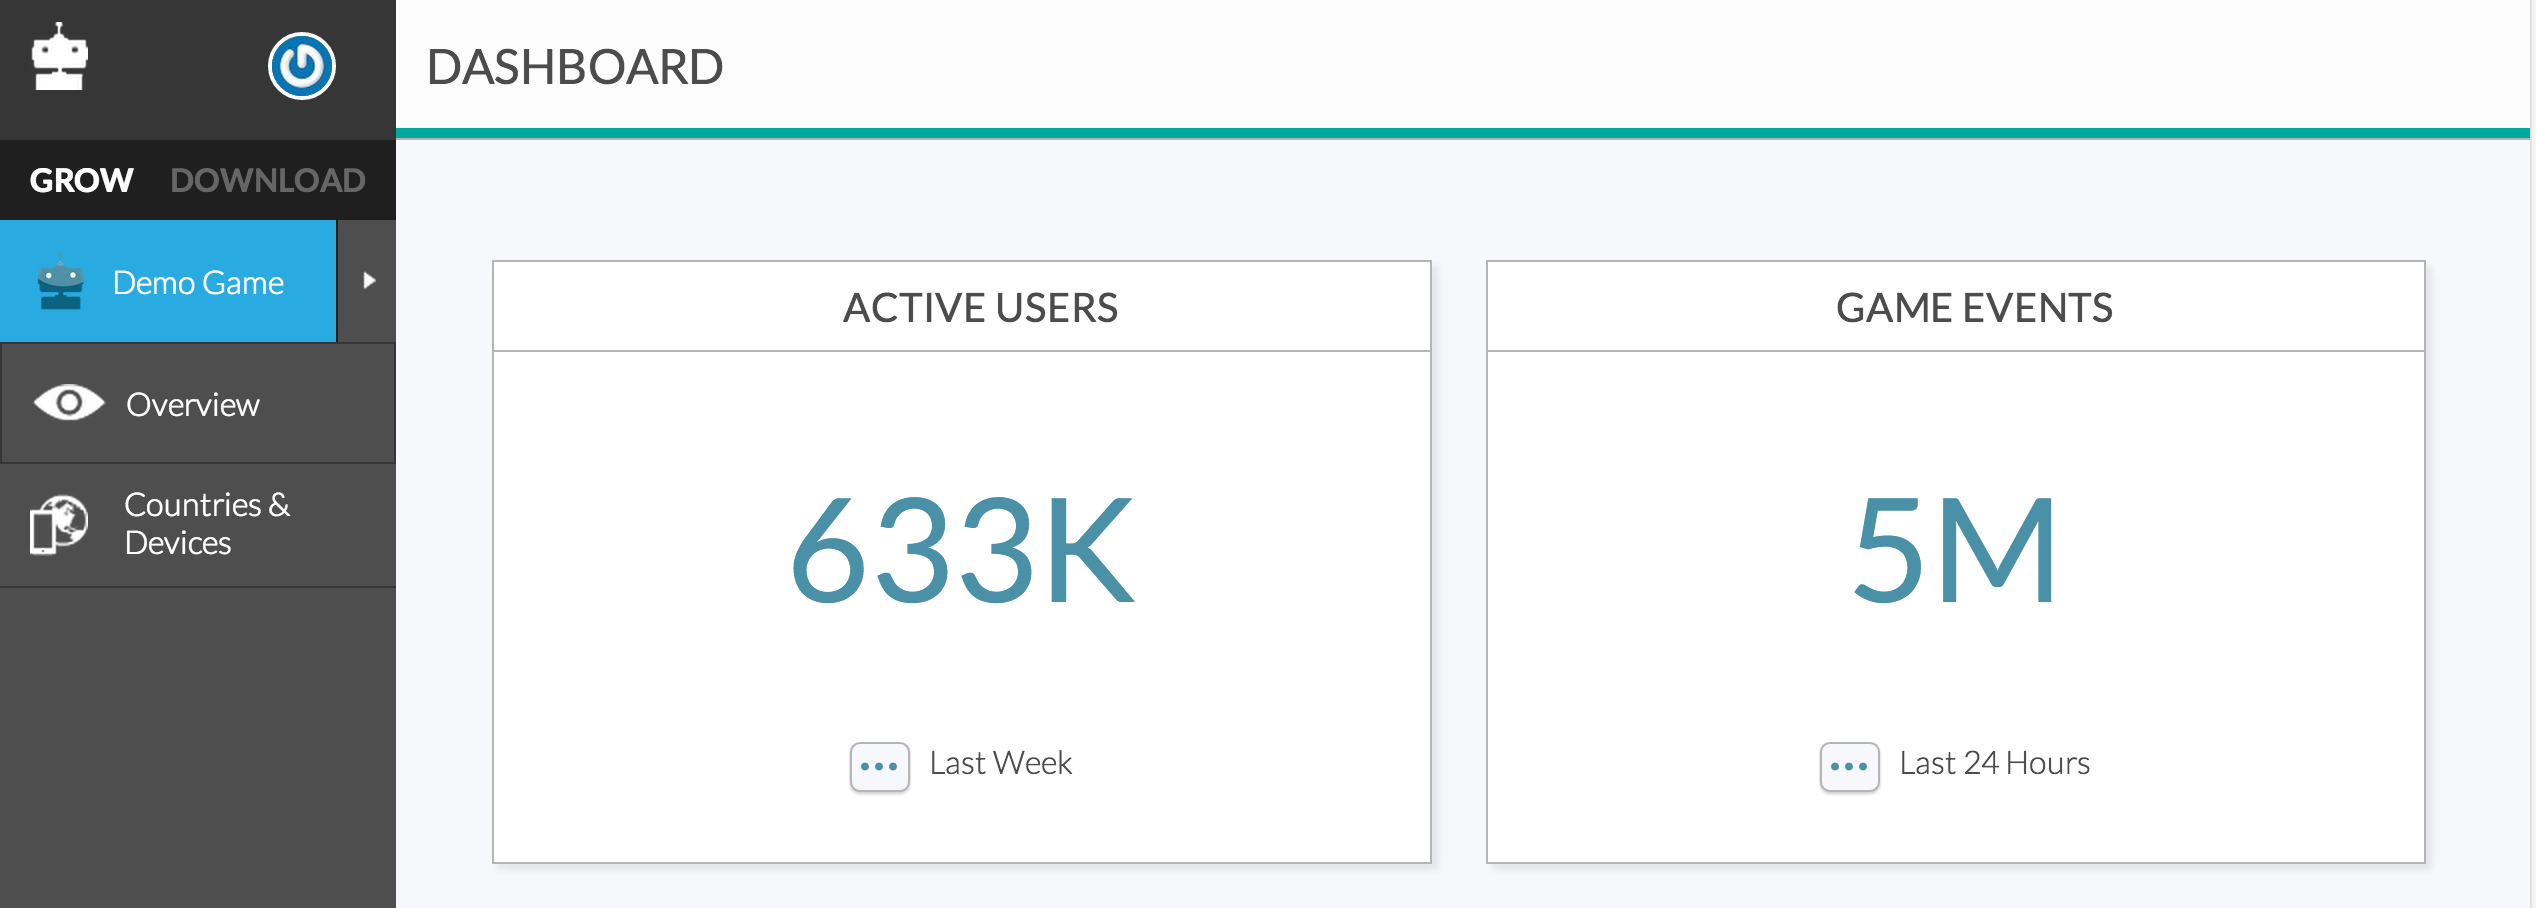
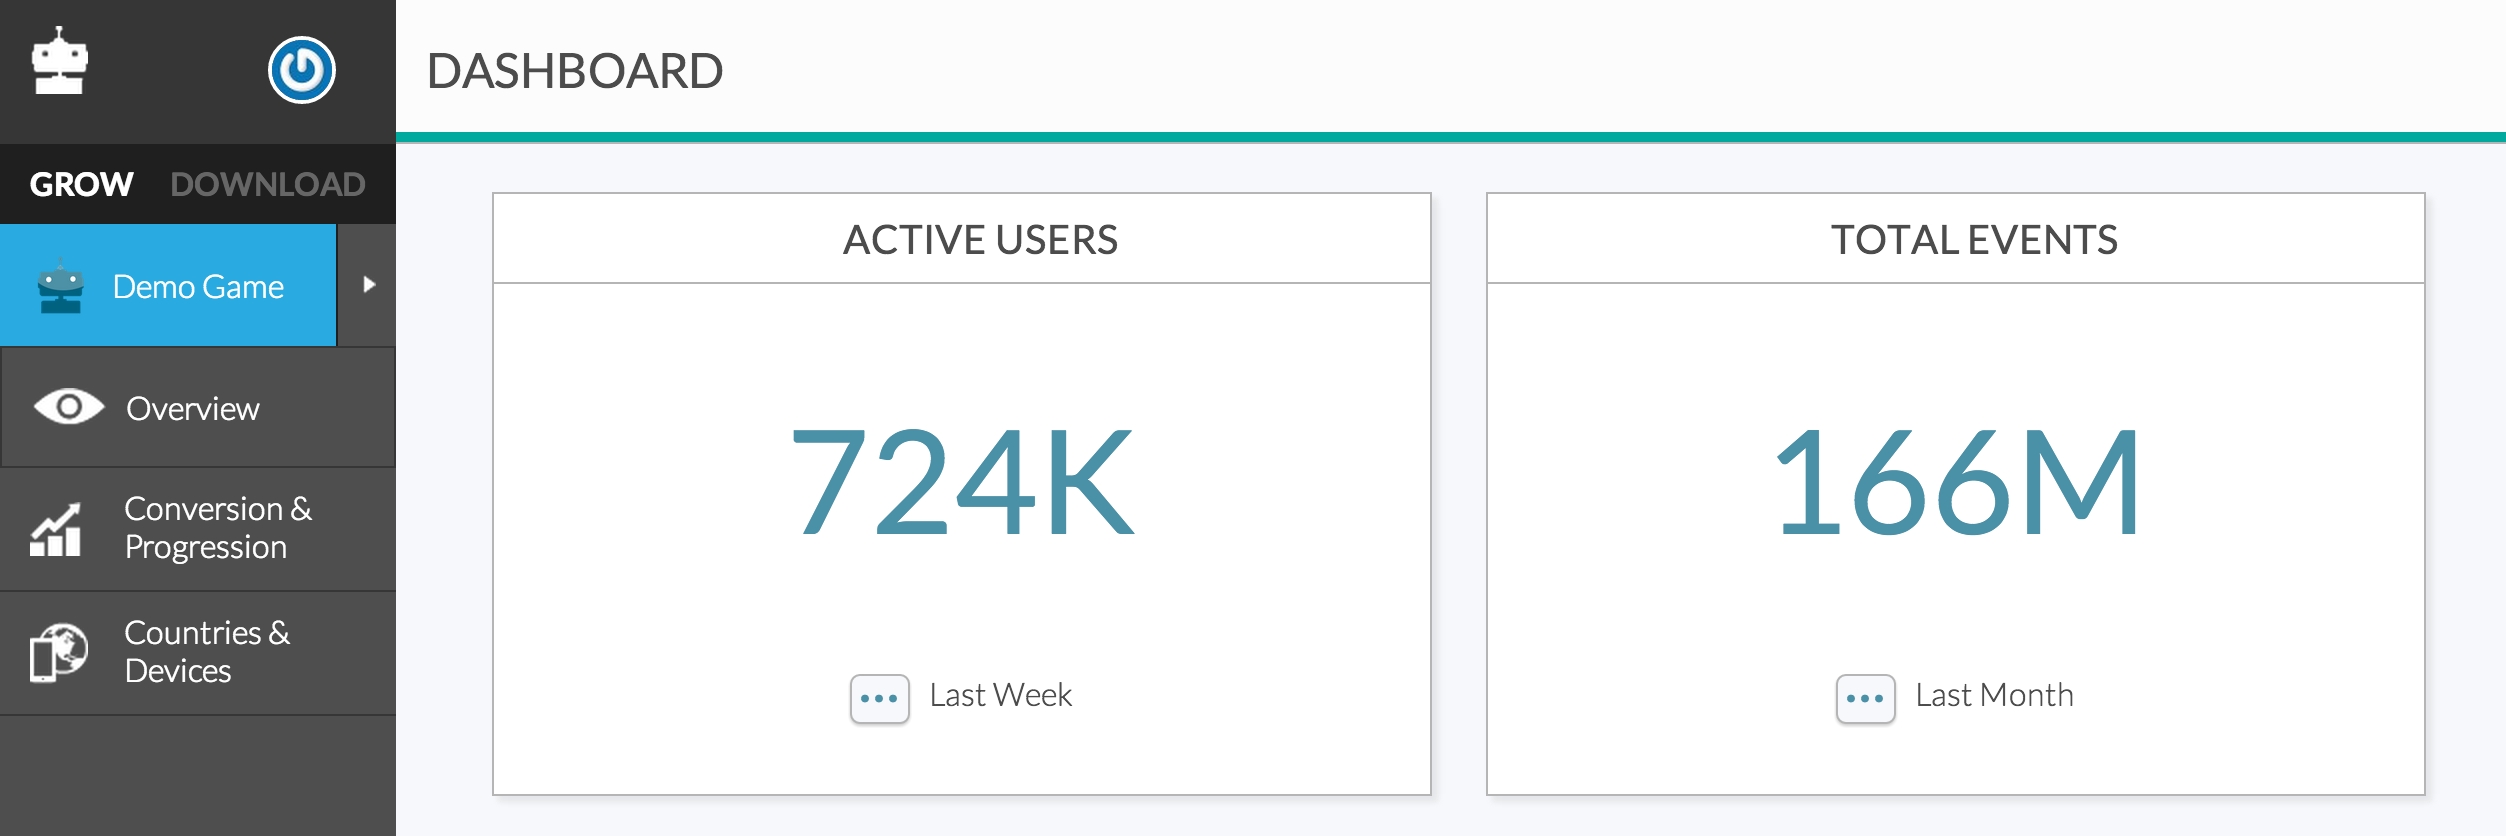
Added to about grow docs.

diff --git a/src/documents/cocos2dx/grow/Grow_About.html.md b/src/documents/cocos2dx/grow/Grow_About.html.md
@@ -26,13 +26,13 @@ To get started with GROW, please follow our [Getting Started tutorial](/cocos2dx
 
 - GROW is different than other analytics services because it allows data sharing. In the dashboard, you'll be able to see statistics about other developers' apps as well as your own. This feature makes it possible for you to **compare your game to other indie games** and see how you measure.
 
-## Breakdown of the GROW Dashboard
+## GROW Dashboard Breakdown
 
 The [GROW dashboard](http://dashboard.soom.la) consists of several screens where you can see different information.
 
-### Main Page
+### **Main Page**
 
-  ![alt text](/img/tutorial_img/unity_grow/demoGame.png "Demo Game Main Screen")
+![alt text](/img/tutorial_img/unity_grow/demoGame.png "Demo Game Main Screen")
 
 - **ACTIVE USERS** - See how many active users your game has and filter by time (today, last week, last month, or all time).
 
@@ -40,9 +40,9 @@ The [GROW dashboard](http://dashboard.soom.la) consists of several screens where
 
 <br>
 
-<div class="info-box">In the following screens of the dashboard, each statistic represents some type of information about your game, while under each of these there's another statistic in blue, which represents the information about all the other games using GROW. Also notice the color coding: Green means that your statistic is better than or equal to the others' statistic. Yellow means that you're a bit behind, and red means you're far behind.</div>
+<div class="info-box">In the following screens of the dashboard, each statistic represents some type of information about your game. Under each of these there's another statistic in blue, which represents the information about all the other games using GROW. Also notice the color coding: green means that your statistic is better than or equal to the others' statistic, yellow means that you're a bit behind, and red means you're far behind.</div>
 
-### Overview
+### **Overview**
 
 In this part of the dashboard, you can filter by Date, Country, and Device. At the time of writing this article, the Benchmark filter is not yet available, but once it comes out, you'll be able to compare how your users behave in other games.
 
@@ -50,13 +50,19 @@ In this part of the dashboard, you can filter by Date, Country, and Device. At t
 
 #### **NUMBERS:**
 
-  ![alt text](/img/tutorial_img/unity_grow/overviewNumbers.png "Numbers")
+![alt text](/img/tutorial_img/unity_grow/overviewNumbers.png "Numbers")
 
 - **ARPU** - Average Revenue Per User
-  For example, if you have 100 users, and only 1 of them paid $1.00, your ARPU will be $1.00 / 100 users = **$0.01**.
+
+For example, if you have 100 users, and only 1 of them paid $1.00, your ARPU will be
+
+$1.00 / 100 users = **$0.01**.
 
 - **ARPPU** - Average Revenue Per **Paying** User
-  Following the example above, you have 1 paying user that paid $1.00, so your ARPPU will be $1.00 / 1 user = **$1.00**
+
+Following the example above, you have 1 paying user that paid $1.00, so your ARPPU will be
+
+$1.00 / 1 user = **$1.00**
 
 - **TIMES PLAYED** - The average number of times your game has been played.
 
@@ -66,11 +72,36 @@ In this part of the dashboard, you can filter by Date, Country, and Device. At t
 
 #### **CONVERSION:**
 
-  ![alt text](/img/tutorial_img/unity_grow/overviewConversion.png "Conversion")
+![alt text](/img/tutorial_img/unity_grow/overviewConversion.png "Conversion")
 
-This shows what percentage of your users make purchases in your game, rated your game, or connect with social networks, all according to the filters you chose at the top. For example, you can see that 1.8% of your users rated your game according to the filters chosen (All time, All countries, All devices). In comparison to the others, you're doing great, because the comparison statistic is 1.4%.
+This shows what percentage of your users make purchases in your game, rate your game, or connect with social networks, all according to the filters you chose at the top. For example, you can see that 1.8% of your users rated your game according to the filters chosen (All time, All countries, All devices). In comparison to the others, you're doing great, because the comparison statistic is 1.4%.
 
-### Countries & Devices
+
+### **Conversion & Progression**
+
+This screen shows the state of your users when they converted (purchased, rated, or 'liked'). You can filter by Conversion action, Date, Country, and Device. In the future, you will be able to filter by benchmark as well.
+
+<br>
+
+#### **CONVERSION MOMENT:**
+
+![alt text](/img/tutorial_img/unity_grow/convMoment.png "Conversion Moment")
+
+- **HAD** - On average, your users perform an action (purchase, rate, or 'like') after they had this number of a specific virtual currency or virtual good. For example, in the image above, the conversion action filter is set to "Purchase" and the filter for "HAD" is set to "Coins" - therefore, on average your users purchase after they had 873 coins.
+
+- **PASSED LEVELS** - On average, your users perform an action (purchase, rate, or 'like') after they passed this number of levels (unique levels and total levels). For example, in the image above, the conversion action filter is set to "Purchase" - therefore, on average your users purchase after they passed 9 unique levels (24 total levels).
+
+- **COMPLETED MISSIONS** - On average, your users perform an action (purchase, rate, or 'like') after they completed this number of missions. For example, in the image above, the conversion action filter is set to "Purchase" - therefore, on average your users purchase after they completed 0 missions.
+
+<br>
+
+#### **DAILY CONVERSION:**
+
+![alt text](/img/tutorial_img/unity_grow/dailyConv.png "Daily Conversion")
+
+This graph presents the number of users who performed the conversion action (purchase, rate, 'like') you chose in the date range you chose.
+
+### **Countries & Devices**
 
 In this part of the dashboard, you can filter by Date and Conversion action, which can be Social, Rating, or Purchase.
 
@@ -78,15 +109,14 @@ In this part of the dashboard, you can filter by Date and Conversion action, whi
 
 #### **COUNTRIES:**
 
-  ![alt text](/img/tutorial_img/unity_grow/countries.png "Countries")
+![alt text](/img/tutorial_img/unity_grow/countries.png "Countries")
 
-  Hover over any country on the map and see what percentage of your users in that country performed the action you defined in the filter. For example, in the image above, you can see that 4.1% of your **US users** that played **yesterday** performed a **social** action in your game (like, post status, etc.). You can see how you compare to other games that use GROW - with .
-the same filters, the other games together have 6.0% for this statistic, which means you're not doing very well in comparison, but not horribly either.  
+Hover over any country on the map and see what percentage of your users in that country performed the action you defined in the filter. For example, in the image above, you can see that 4.1% of your **US users** that played **yesterday** performed a **social** action in your game (like, post status, etc.). You can see how you compare to other games that use GROW - with the same filters, the other games together have 6.0% for this statistic, which means you're not doing very well in comparison, but not horribly either.  
 
 <br>
 
 #### **DEVICES:**
 
-  ![alt text](/img/tutorial_img/unity_grow/devices.png "Devices")
+![alt text](/img/tutorial_img/unity_grow/devices.png "Devices")
 
-  See the percentage of your users who performed the action you defined in the filter per device. For example, 4.5% of your iPhone users rated your game. 6.2% of the other games' iPhone users rated their games.
+See the percentage of your users who performed the action you defined in the filter per device. For example, 4.5% of your iPhone users rated your game. 6.2% of the other games' iPhone users rated their games.

diff --git a/src/documents/unity/grow/Grow_About.html.md b/src/documents/unity/grow/Grow_About.html.md
@@ -25,11 +25,11 @@ To get started with GROW, please follow our [Getting Started tutorial](/unity/gr
 
 - GROW is different than other analytics services because it allows data sharing. In the dashboard, you'll be able to see statistics about other developers' apps as well as your own. This feature makes it possible for you to **compare your game to other indie games** and see how you measure.
 
-## Breakdown of the GROW Dashboard
+## GROW Dashboard Breakdown
 
 The [GROW dashboard](http://dashboard.soom.la) consists of several screens where you can see different information.
 
-### Main Page
+### **Main Page**
 
   ![alt text](/img/tutorial_img/unity_grow/demoGame.png "Demo Game Main Screen")
 
@@ -39,9 +39,9 @@ The [GROW dashboard](http://dashboard.soom.la) consists of several screens where
 
 <br>
 
-<div class="info-box">In the following screens of the dashboard, each statistic represents some type of information about your game, while under each of these there's another statistic in blue, which represents the information about all the other games using GROW. Also notice the color coding: Green means that your statistic is better than or equal to the others' statistic. Yellow means that you're a bit behind, and red means you're far behind.</div>
+<div class="info-box">In the following screens of the dashboard, each statistic represents some type of information about your game. Under each of these there's another statistic in blue, which represents the information about all the other games using GROW. Also notice the color coding: green means that your statistic is better than or equal to the others' statistic, yellow means that you're a bit behind, and red means you're far behind.</div>
 
-### Overview
+### **Overview**
 
 In this part of the dashboard, you can filter by Date, Country, and Device. At the time of writing this article, the Benchmark filter is not yet available, but once it comes out, you'll be able to compare how your users behave in other games.
 
@@ -52,10 +52,16 @@ In this part of the dashboard, you can filter by Date, Country, and Device. At t
   ![alt text](/img/tutorial_img/unity_grow/overviewNumbers.png "Numbers")
 
 - **ARPU** - Average Revenue Per User
-	For example, if you have 100 users, and only 1 of them paid $1.00, your ARPU will be $1.00 / 100 users = **$0.01**.
+
+  For example, if you have 100 users, and only 1 of them paid $1.00, your ARPU will be
+
+  $1.00 / 100 users = **$0.01**.
 
 - **ARPPU** - Average Revenue Per **Paying** User
-	Following the example above, you have 1 paying user that paid $1.00, so your ARPPU will be $1.00 / 1 user = **$1.00**
+
+  Following the example above, you have 1 paying user that paid $1.00, so your ARPPU will be
+
+  $1.00 / 1 user = **$1.00**
 
 - **TIMES PLAYED** - The average number of times your game has been played.
 
@@ -67,9 +73,34 @@ In this part of the dashboard, you can filter by Date, Country, and Device. At t
 
   ![alt text](/img/tutorial_img/unity_grow/overviewConversion.png "Conversion")
 
-This shows what percentage of your users make purchases in your game, rated your game, or connect with social networks, all according to the filters you chose at the top. For example, you can see that 1.8% of your users rated your game according to the filters chosen (All time, All countries, All devices). In comparison to the others, you're doing great, because the comparison statistic is 1.4%.
+This shows what percentage of your users make purchases in your game, rate your game, or connect with social networks, all according to the filters you chose at the top. For example, you can see that 1.8% of your users rated your game according to the filters chosen (All time, All countries, All devices). In comparison to the others, you're doing great, because the comparison statistic is 1.4%.
 
-### Countries & Devices
+
+### **Conversion & Progression**
+
+This screen shows the state of your users when they converted (purchased, rated, or 'liked'). You can filter by Conversion action, Date, Country, and Device. In the future, you will be able to filter by benchmark as well.
+
+<br>
+
+#### **CONVERSION MOMENT:**
+
+![alt text](/img/tutorial_img/unity_grow/convMoment.png "Conversion Moment")
+
+- **HAD** - On average, your users perform an action (purchase, rate, or 'like') after they had this number of a specific virtual currency or virtual good. For example, in the image above, the conversion action filter is set to "Purchase" and the filter for "HAD" is set to "Coins" - therefore, on average your users purchase after they had 873 coins.
+
+- **PASSED LEVELS** - On average, your users perform an action (purchase, rate, or 'like') after they passed this number of levels (unique levels and total levels). For example, in the image above, the conversion action filter is set to "Purchase" - therefore, on average your users purchase after they passed 9 unique levels (24 total levels).
+
+- **COMPLETED MISSIONS** - On average, your users perform an action (purchase, rate, or 'like') after they completed this number of missions. For example, in the image above, the conversion action filter is set to "Purchase" - therefore, on average your users purchase after they completed 0 missions.
+
+<br>
+
+#### **DAILY CONVERSION:**
+
+![alt text](/img/tutorial_img/unity_grow/dailyConv.png "Daily Conversion")
+
+This graph presents the number of users who performed the conversion action (purchase, rate, 'like') you chose in the date range you chose.
+
+### **Countries & Devices**
 
 In this part of the dashboard, you can filter by Date and Conversion action, which can be Social, Rating, or Purchase.
 
@@ -79,8 +110,7 @@ In this part of the dashboard, you can filter by Date and Conversion action, whi
 
   ![alt text](/img/tutorial_img/unity_grow/countries.png "Countries")
 
-  Hover over any country on the map and see what percentage of your users in that country performed the action you defined in the filter. For example, in the image above, you can see that 4.1% of your **US users** that played **yesterday** performed a **social** action in your game (like, post status, etc.). You can see how you compare to other games that use GROW - with .
-the same filters, the other games together have 6.0% for this statistic, which means you're not doing very well in comparison, but not horribly either.  
+  Hover over any country on the map and see what percentage of your users in that country performed the action you defined in the filter. For example, in the image above, you can see that 4.1% of your **US users** that played **yesterday** performed a **social** action in your game (like, post status, etc.). You can see how you compare to other games that use GROW - with the same filters, the other games together have 6.0% for this statistic, which means you're not doing very well in comparison, but not horribly either.  
 
 <br>
 
